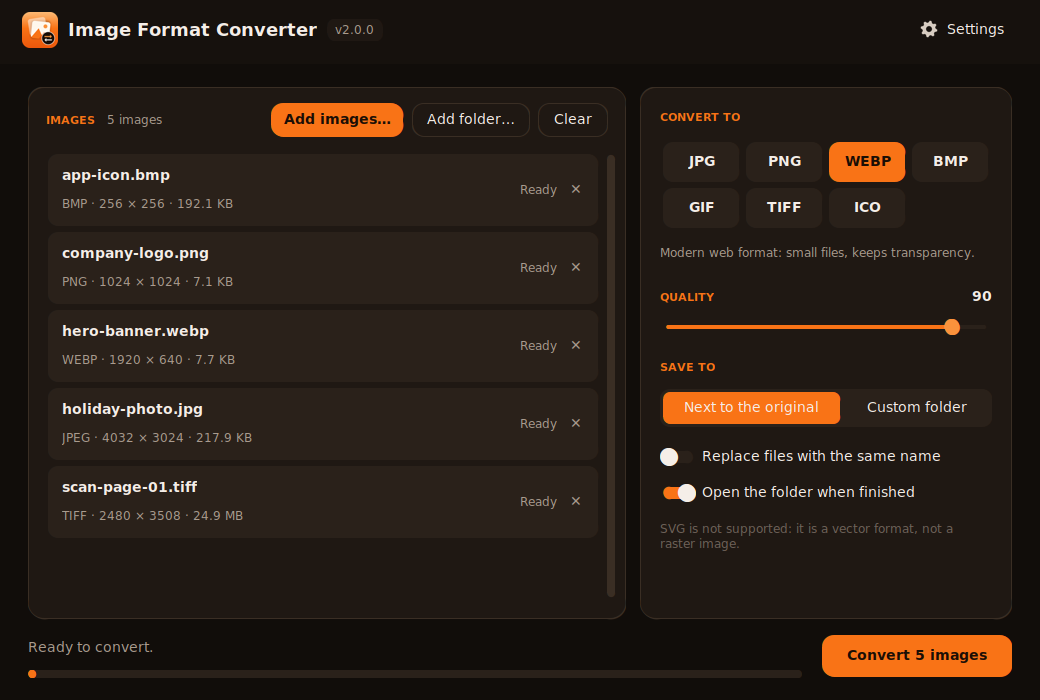
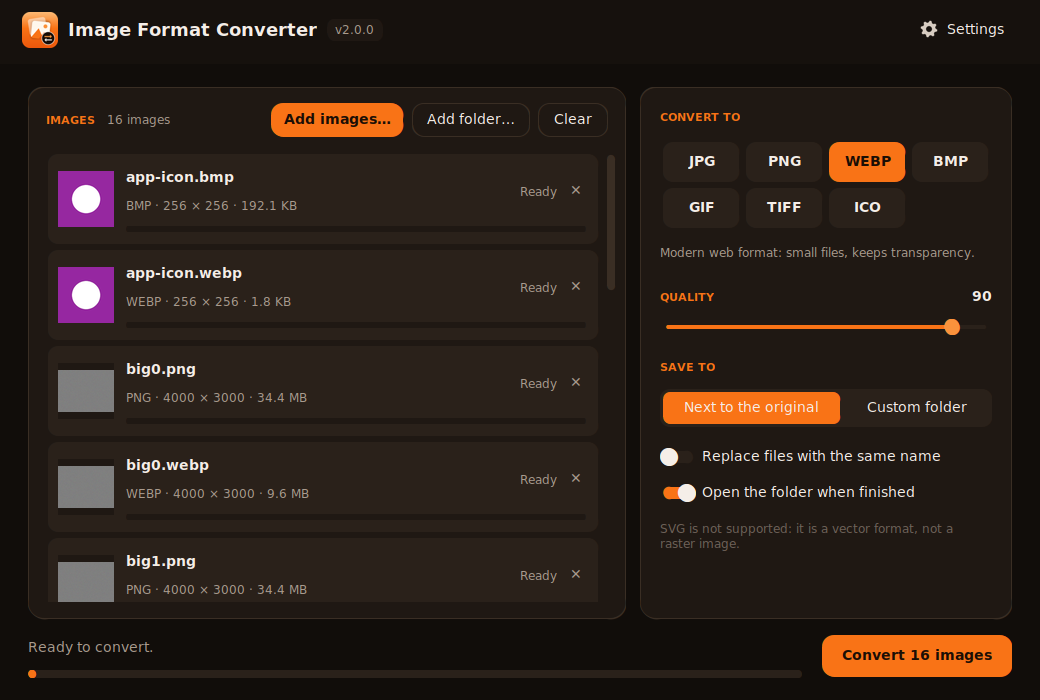
Rewrite as a Windows desktop app built by GitHub Actions (v2.0.0)

diff --git a/image_converter_gui.py b/image_converter_gui.py
@@ -18,7 +18,7 @@ from tkinter import filedialog
 import customtkinter as ctk
 import PIL._tkinter_finder  # noqa: F401  (CustomTkinter imports Pillow's Tk support lazily, so PyInstaller
 import PIL.ImageTk  # noqa: F401              would miss it unless it is imported here)
-from PIL import Image
+from PIL import Image, ImageOps
 
 import converter_core as core
 from app_common import APP_AUTHOR, APP_LICENSE, APP_NAME, APP_REPO, APP_SLUG, APP_URL, APP_VERSION, APP_WEBSITE
@@ -96,6 +96,27 @@ def human_size(n):
 
 def shorten(text, limit):
     return text if len(text) <= limit else text[: limit - 1] + "…"
+
+
+THUMB = 56
+_THUMB_BG = (31, 24, 19, 255)
+
+
+def make_thumbnail(path):
+    """A small square preview of an image (a dark placeholder tile if it cannot be drawn)."""
+    tile = Image.new("RGBA", (THUMB, THUMB), _THUMB_BG)
+    try:
+        with Image.open(path) as im:
+            if im.format == "JPEG":
+                im.draft("RGB", (THUMB * 2, THUMB * 2))      # decode a reduced size: much faster for big photos
+            im.thumbnail((THUMB * 2, THUMB * 2))
+            im = ImageOps.exif_transpose(im) or im
+            small = im.convert("RGBA")
+        small.thumbnail((THUMB, THUMB), Image.LANCZOS)
+        tile.alpha_composite(small, ((THUMB - small.width) // 2, (THUMB - small.height) // 2))
+    except Exception:
+        pass
+    return ctk.CTkImage(light_image=tile, dark_image=tile, size=(THUMB, THUMB))
 
 
 def set_windows_app_id():
@@ -670,20 +691,26 @@ class App(ctk.CTk, _DnDBase):
     def _add_row(self, path, info):
         row = ctk.CTkFrame(self.list_frame, fg_color=FIELD, corner_radius=10)
         row.grid(row=len(self.items), column=0, sticky="ew", padx=4, pady=3)
-        row.grid_columnconfigure(0, weight=1)
+        row.grid_columnconfigure(1, weight=1)
+        thumb = make_thumbnail(path)
+        ctk.CTkLabel(row, image=thumb, text="").grid(row=0, column=0, rowspan=2, padx=(10, 4), pady=10)
         text = ctk.CTkFrame(row, fg_color="transparent")
-        text.grid(row=0, column=0, sticky="w", padx=(14, 8), pady=8)
-        ctk.CTkLabel(text, text=shorten(path.name, 44), font=self.f_bold, text_color=FG, anchor="w").pack(anchor="w")
+        text.grid(row=0, column=1, sticky="w", padx=(8, 8), pady=(10, 0))
+        ctk.CTkLabel(text, text=shorten(path.name, 40), font=self.f_bold, text_color=FG, anchor="w").pack(anchor="w")
         ctk.CTkLabel(text, text=f"{info.format} · {info.width} × {info.height} · {human_size(info.size_bytes)}",
                      font=self.f_small, text_color=MUTED, anchor="w").pack(anchor="w")
         status = ctk.CTkLabel(row, text="Ready", font=self.f_small, text_color=MUTED, anchor="e")
-        status.grid(row=0, column=1, padx=(8, 4))
-        item = {"path": path, "info": info, "row": row, "status": status}
+        status.grid(row=0, column=2, padx=(8, 4), pady=(10, 0))
+        item = {"path": path, "info": info, "row": row, "status": status, "thumb": thumb}
         remove = ctk.CTkButton(row, text="✕", width=30, height=30, corner_radius=8, fg_color="transparent",
                                hover_color=PANEL_H, text_color=MUTED, font=self.f_body,
                                command=lambda it=item: self.remove_item(it))
-        remove.grid(row=0, column=2, padx=(0, 8))
+        remove.grid(row=0, column=3, padx=(0, 8), pady=(8, 0))
         item["remove"] = remove
+        bar = ctk.CTkProgressBar(row, height=6, corner_radius=3, fg_color=PANEL, progress_color=ORANGE)
+        bar.set(0)
+        bar.grid(row=1, column=1, columnspan=3, sticky="ew", padx=(8, 12), pady=(6, 12))
+        item["bar"] = bar
         self.items.append(item)
 
     def remove_item(self, item):
@@ -708,7 +735,27 @@ class App(ctk.CTk, _DnDBase):
     def _reset_statuses(self):
         for it in self.items:
             it["status"].configure(text="Ready", text_color=MUTED)
+            self._row_bar(it, "idle")
         self.bar.set(0)
+
+    def _row_bar(self, item, state):
+        """Per-image progress bar: idle (empty) / running (animated) / ok (full) / error (full, red)."""
+        bar = item["bar"]
+        bar.stop()
+        color = DANGER if state == "error" else (PANEL if state == "idle" else ORANGE)   # idle: no stray dot
+        bar.configure(mode="determinate", progress_color=color)
+        if state == "running":
+            bar.configure(mode="indeterminate")
+            bar.start()
+        else:
+            bar.set(1 if state in ("ok", "error") else 0)
+
+    def _scroll_to(self, index):
+        """Keep the image that is being converted in view."""
+        try:
+            self.list_frame._parent_canvas.yview_moveto(max(0, index - 1) / max(1, len(self.items)))
+        except Exception:
+            pass
 
     def _refresh_list(self):
         n = len(self.items)
@@ -772,6 +819,7 @@ class App(ctk.CTk, _DnDBase):
         for i, src in enumerate(job["files"]):
             if self.stop_event.is_set():
                 break
+            self.q.put(("start", i, total))
             try:
                 dst = core.convert_image(src, job["fmt"], job["out_dir"], quality=job["quality"],
                                          overwrite=job["overwrite"])
@@ -790,13 +838,21 @@ class App(ctk.CTk, _DnDBase):
             while True:
                 msg = self.q.get_nowait()
                 kind = msg[0]
-                if kind == "ok":
+                if kind == "start":
+                    _, i, total = msg
+                    self.items[i]["status"].configure(text="Converting…", text_color=ORANGE_H)
+                    self._row_bar(self.items[i], "running")
+                    self._scroll_to(i)
+                    self._set_status(f"Converting {i + 1} of {total}…", MUTED)
+                elif kind == "ok":
                     _, i, total, dst = msg
+                    self._row_bar(self.items[i], "ok")
                     self.last_outputs.append(Path(dst))
                     self.items[i]["status"].configure(text=f"✓ {shorten(Path(dst).name, 28)}", text_color=OK)
                     self._progress(i + 1, total)
                 elif kind == "err":
                     _, i, total, text = msg
+                    self._row_bar(self.items[i], "error")
                     self.items[i]["status"].configure(text=f"✗ {shorten(text, 34)}", text_color=DANGER)
                     self._progress(i + 1, total)
                 elif kind == "done":
@@ -807,7 +863,6 @@ class App(ctk.CTk, _DnDBase):
 
     def _progress(self, n, total):
         self.bar.set(n / total)
-        self._set_status(f"Converting {n} of {total}…", MUTED)
 
     def _finished(self, done, failed, stopped):
         self._set_busy(False)

diff --git a/README.md b/README.md
@@ -38,7 +38,8 @@
 
 ## Features
 
-- **Batch conversion**: add many images at once (**Add images…**, **Add folder…**, or drag and drop) and convert them all in one go.
+- **Batch conversion**: add many images at once (**Add images…**, **Add folder…**, or drag and drop). Each one is shown with a **thumbnail**, its name, format, size and file size.
+- **Live progress**: images are converted one after another; every row has its own progress bar and status (✓ new file name / ✗ reason), plus an overall bar at the bottom.
 - **7 output formats**: JPG, PNG, WEBP, BMP, GIF, TIFF and ICO.
 - **Quality slider** for JPG and WEBP.
 - **Real Windows icons**: ICO output contains 16, 32, 48 and 256 px sizes, keeps the aspect ratio and the transparency.

diff --git a/CHANGELOG.md b/CHANGELOG.md
@@ -13,7 +13,8 @@ Image Format Converter is now a real Windows desktop app, built and released by 
 
 ### Added
 - Desktop app with a dark-and-orange interface (same theme as SnapshotAll): `image_converter_gui.py`.
-- Batch conversion: add files, add a folder, or drag and drop.
+- Batch conversion: add files, add a folder, or drag and drop. Every image is listed with a thumbnail and its details.
+- Images are converted one by one, each with its own progress bar, in addition to the overall bar.
 - WEBP output, and a quality slider for JPG and WEBP.
 - Animated GIF ⇄ WEBP conversion that keeps all frames.
 - Choice of output folder, and a switch for replacing files with the same name (default: never overwrite, use `name (1).ext`).
